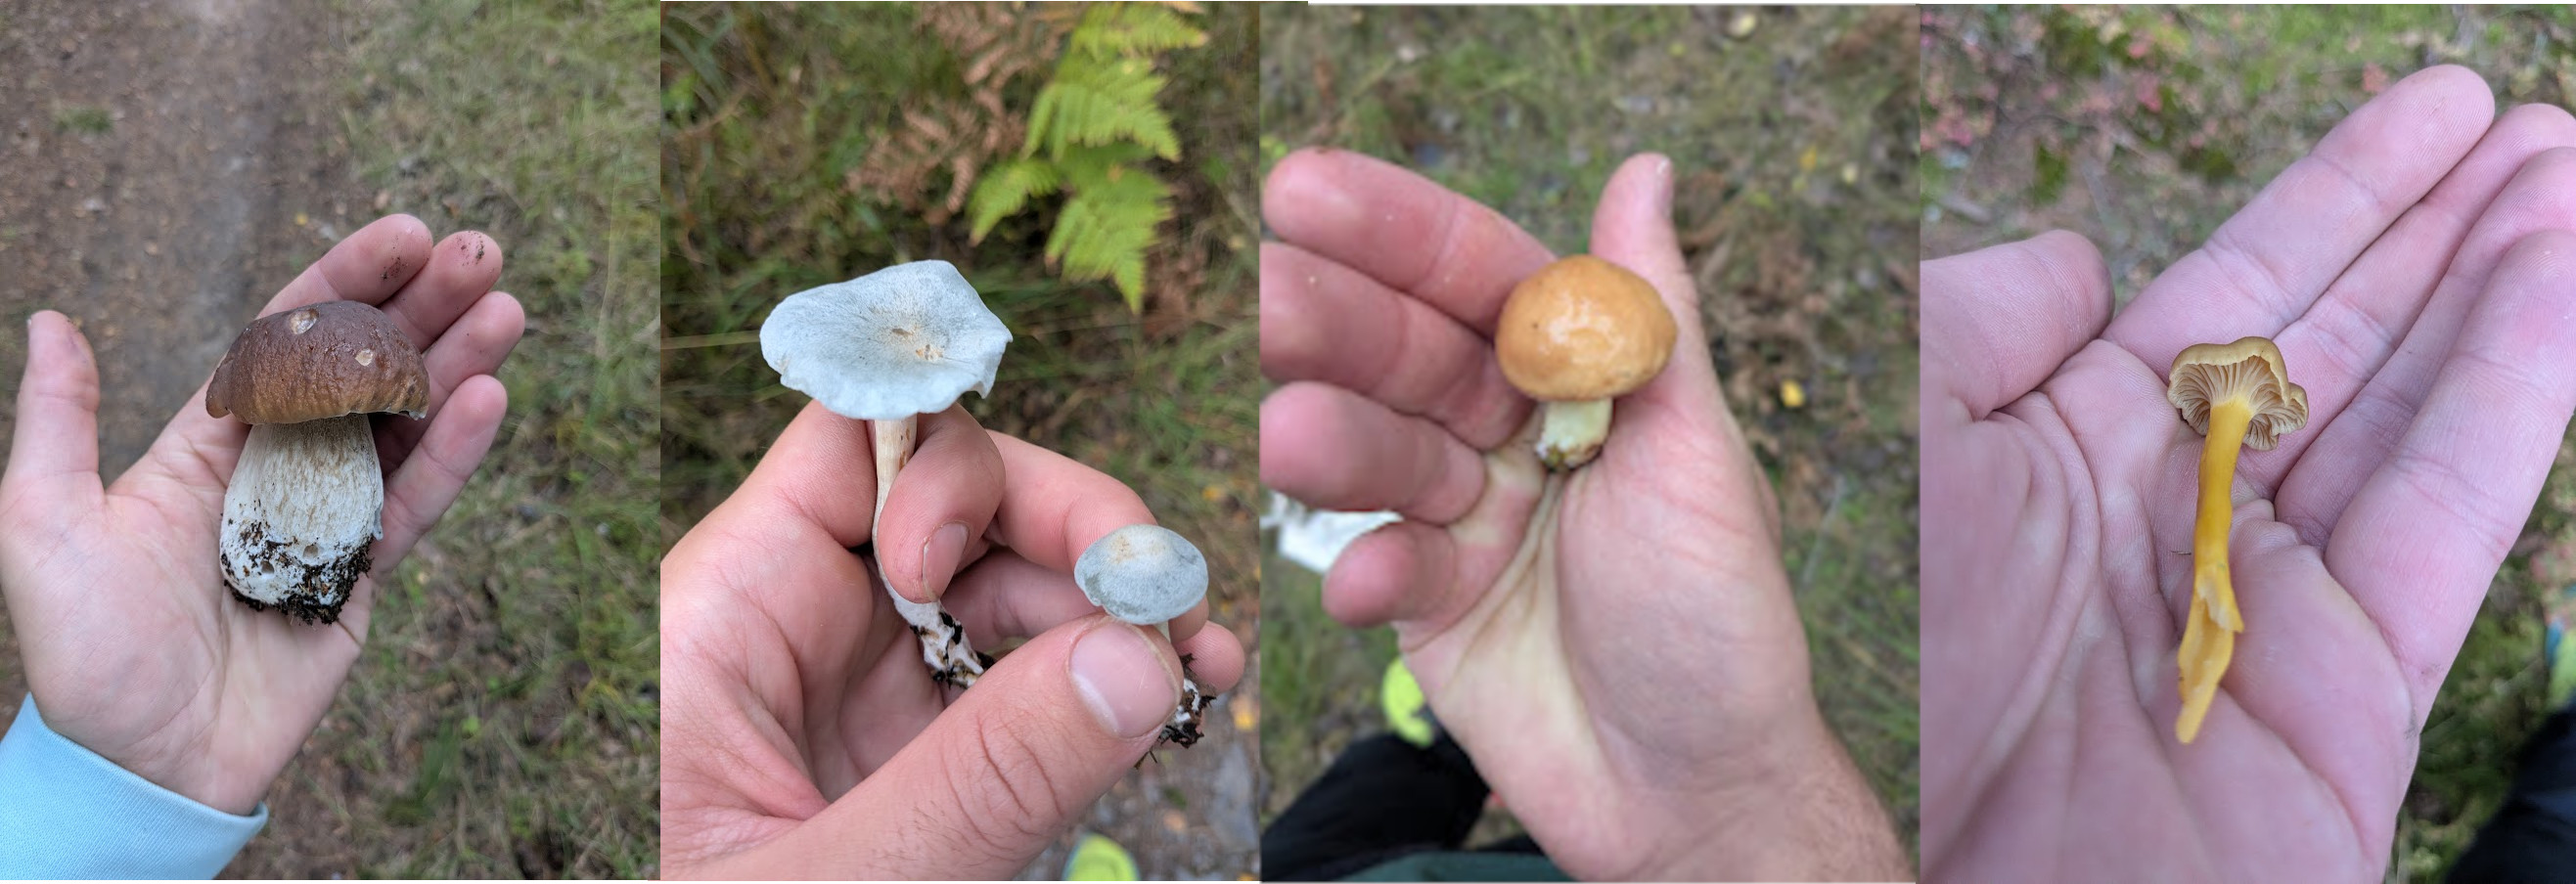
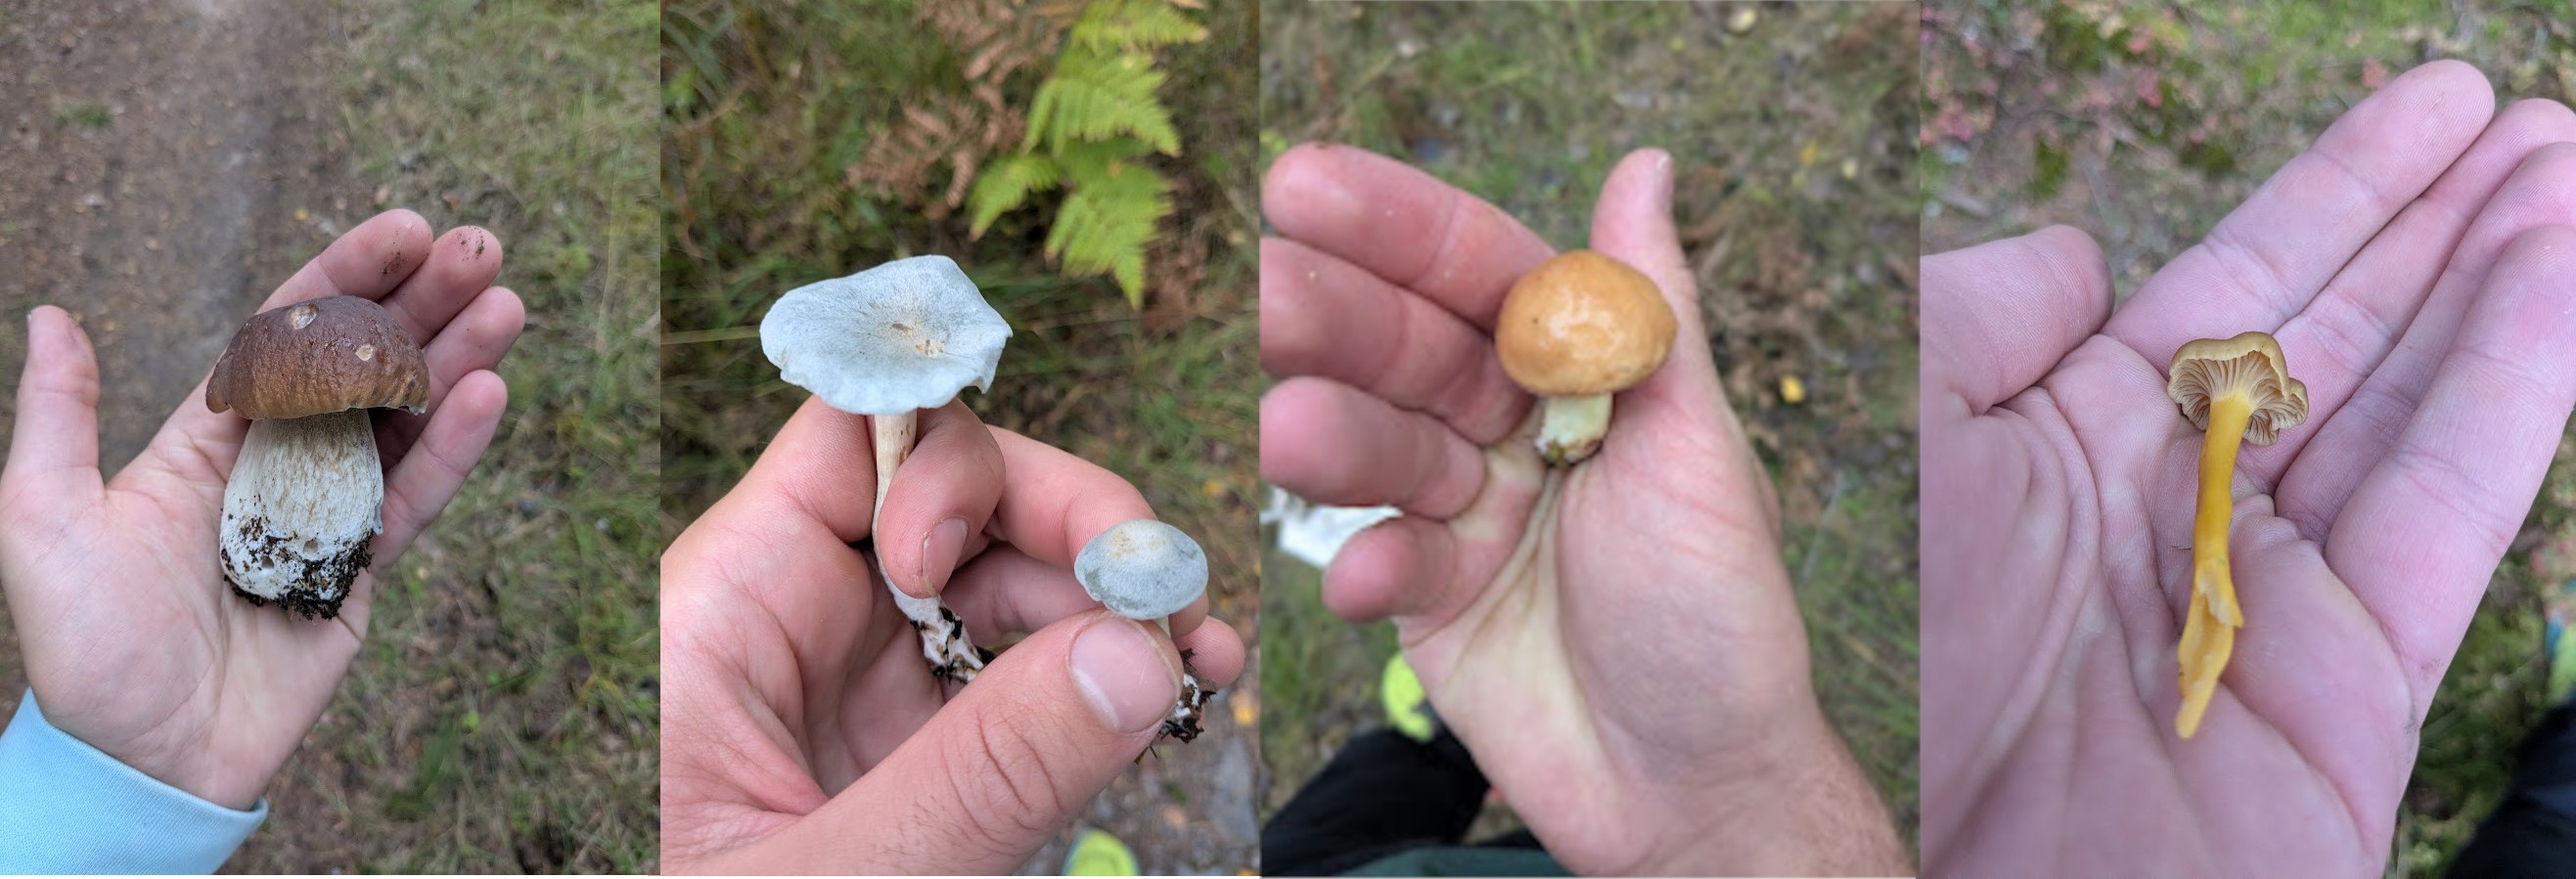
Trim the white strip from the top of the joy-of-incompetence cover and end its summary with a full stop

diff --git a/src/content/blog/joy-of-incompetence.md b/src/content/blog/joy-of-incompetence.md
@@ -1,7 +1,7 @@
 ---
 title: "The joy of one's own incompetence"
 description: |
-  Meditations on existential pressures set in the Swedish forest
+  Meditations on existential pressures set in the Swedish forest.
 pubDate: "2026-09-16"
 authors: ["julius"]
 track: "phd-tips"
